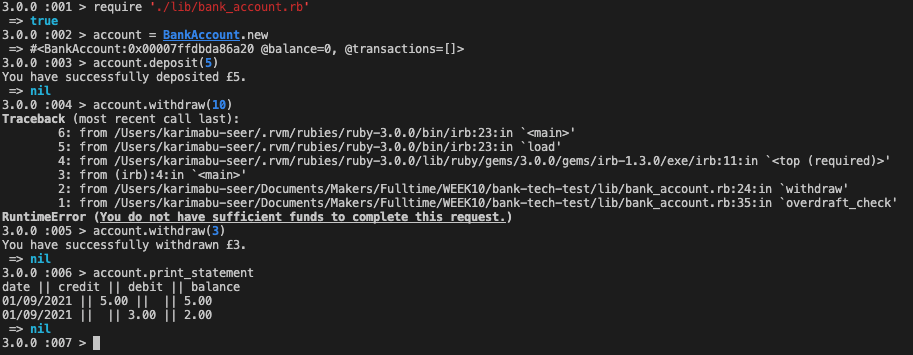
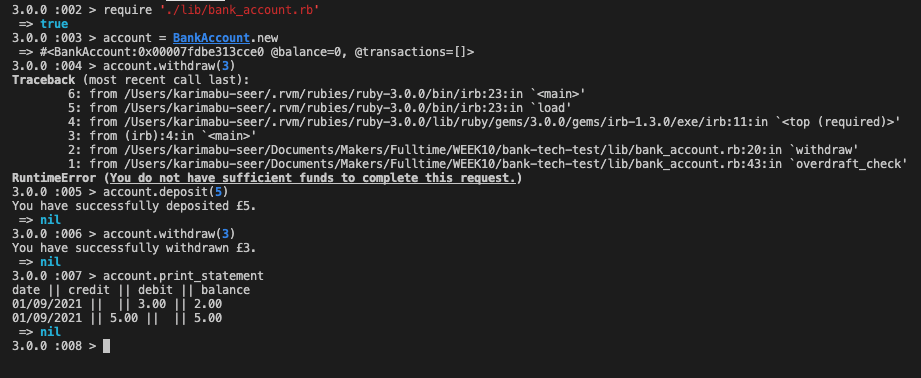
Updated so puts transactions in reverse order

Changed region(s): [[0.0, 0.0, 0.9814, 0.9915]]

diff --git a/spec/bank_account_spec.rb b/spec/bank_account_spec.rb
@@ -60,14 +60,14 @@ describe BankAccount do
       deposit_three
       deposit_two
       mock_print_two_deposits
-      expect { subject.print_statement } .to output(("date || credit || debit || balance\n31/08/2021 || 3.00 ||  || 3.00 \n31/08/2021 || 2.00 ||  || 5.00 \n")).to_stdout
+      expect { subject.print_statement } .to output("date || credit || debit || balance\n31/08/2021 || 2.00 ||  || 5.00 \n31/08/2021 || 3.00 ||  || 3.00 \n").to_stdout
     end
 
     it 'prints off a single deposit and a single withdrawal' do
       deposit_three
       withdraw_one
       mock_one_deposit_one_withdrawal
-      expect { subject.print_statement } .to output("date || credit || debit || balance\n31/08/2021 || 3.00 ||  || 3.00 \n31/08/2021 ||  || 1.00 || 2.00 \n").to_stdout
+      expect { subject.print_statement } .to output("date || credit || debit || balance\n31/08/2021 ||  || 1.00 || 2.00 \n31/08/2021 || 3.00 ||  || 3.00 \n").to_stdout
     end
   end
 end

diff --git a/spec/helpers/bank_spec_helpers.rb b/spec/helpers/bank_spec_helpers.rb
@@ -23,9 +23,10 @@ def mock_print_one_deposit
 end
 
 def mock_print_two_deposits
-  allow(subject).to receive(:print_transactions).and_return("31/08/2021 || 3.00 ||  || 3.00 \n31/08/2021 || 2.00 ||  || 5.00 ")
+  allow(subject).to receive(:print_transactions).and_return("31/08/2021 || 2.00 ||  || 5.00 \n31/08/2021 || 3.00 ||  || 3.00 \n")
 end
 
 def mock_one_deposit_one_withdrawal
-  allow(subject).to receive(:print_transactions).and_return("31/08/2021 || 3.00 ||  || 3.00 \n31/08/2021 ||  || 1.00 || 2.00 \n")
+  allow(subject).to receive(:print_transactions).and_return("31/08/2021 ||  || 1.00 || 2.00 \n31/08/2021 || 3.00 ||  || 3.00 \n")
 end
+

diff --git a/lib/bank_account.rb b/lib/bank_account.rb
@@ -52,7 +52,7 @@ class BankAccount
   end
 
   def print_transactions
-    @transactions.map do |transaction|
+    @transactions.reverse.map do |transaction|
       transaction.generate_formatted_record.to_s
     end
   end

diff --git a/README.md b/README.md
@@ -41,9 +41,9 @@ rspec
 5. I extracted a class from the hashes, with each representing a single transaction.
 6. Once this was done, I considered creating a printer class that would be in charge of printing out statements. I decided this wasn't necessary, as it makes sense for an account to be able to draw together a list of transactions (and account wasn't particularly bloated). I did decide to add a formatting method to each transaction class, however.
 7. I then refactored my tests to work off of a stubbed method for transaction, and added helper methods to DRY out the automated tests.
-8. I made some final refactors to the code - moved sensitive methods to be private.
+8. I made some final refactors to the code - moved sensitive methods to be private. I also considered that it would make sense for the most recent transactions to come up first in the printed statement, so I changed my tests and code to reflect this. 
 ## Running App
-
+![Running App](images/running_app.ping)
 
 
 ## User Stories
@@ -51,7 +51,7 @@ rspec
 As a Customer,
 So I can store my money,
 I want to create an empty bank account
-````
+````  
 
 ````
 As a Customer,
